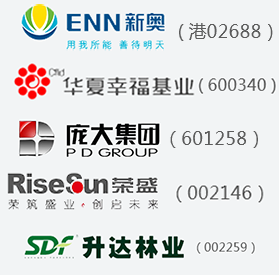
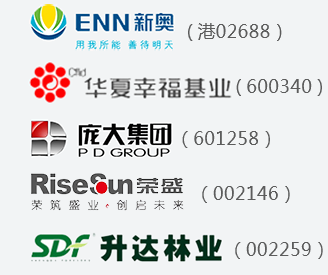
add slider

diff --git a/web/src/ccc/act/css/newUser.css b/web/src/ccc/act/css/newUser.css
@@ -102,7 +102,7 @@ ul,li{margin: 0;padding: 0;list-style: none;}
 .liubai{background-position: -520px 0;}
 .row{width: 1100px;margin:auto;}
 .row span{font-size: 24px;color: #575757;display: inline-block;vertical-align: middle;}
-.sider{width: 279px;height: 55px;overflow: hidden;position: relative; display: inline-block; vertical-align: middle;}
+.sider{width: 330px;height: 55px;overflow: hidden;position: relative; display: inline-block; vertical-align: middle;}
 .sider img{position: absolute;top: 0;}
 .callImg{background-image: url(../img/phone.png); width:233px;height: 40px;background-repeat: no-repeat;margin-top: 8px; }
 .fr{float: right;}
